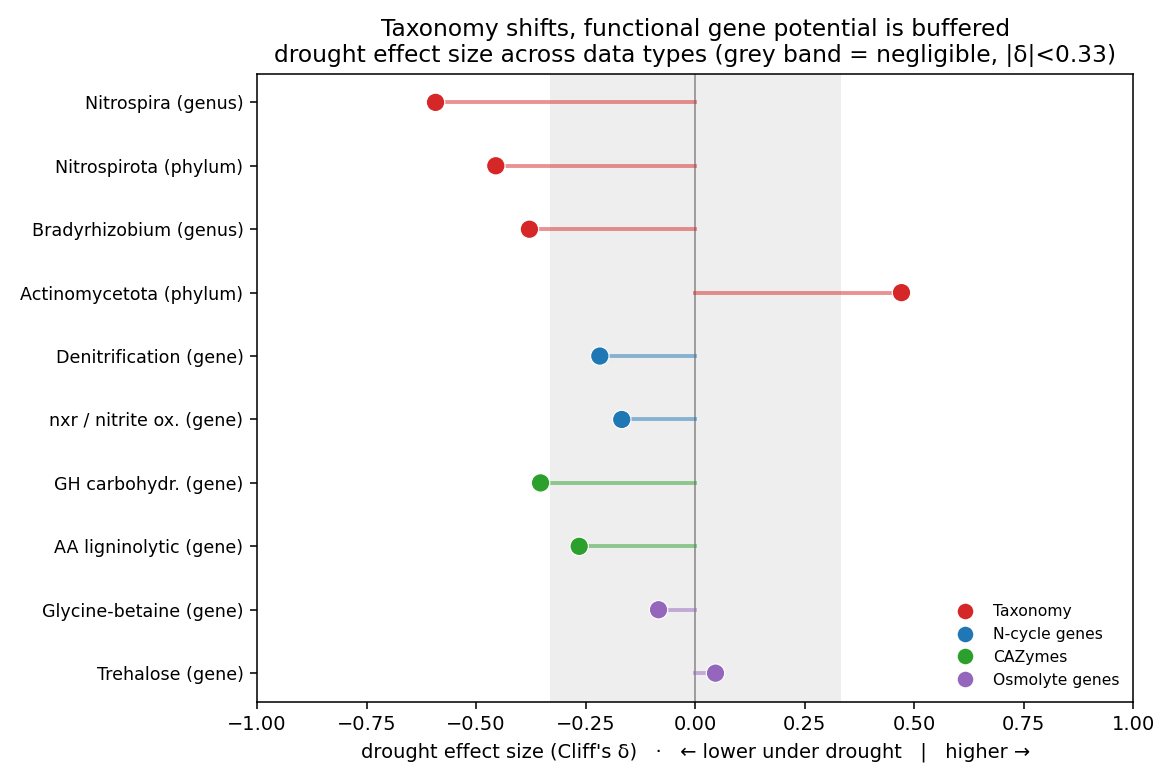
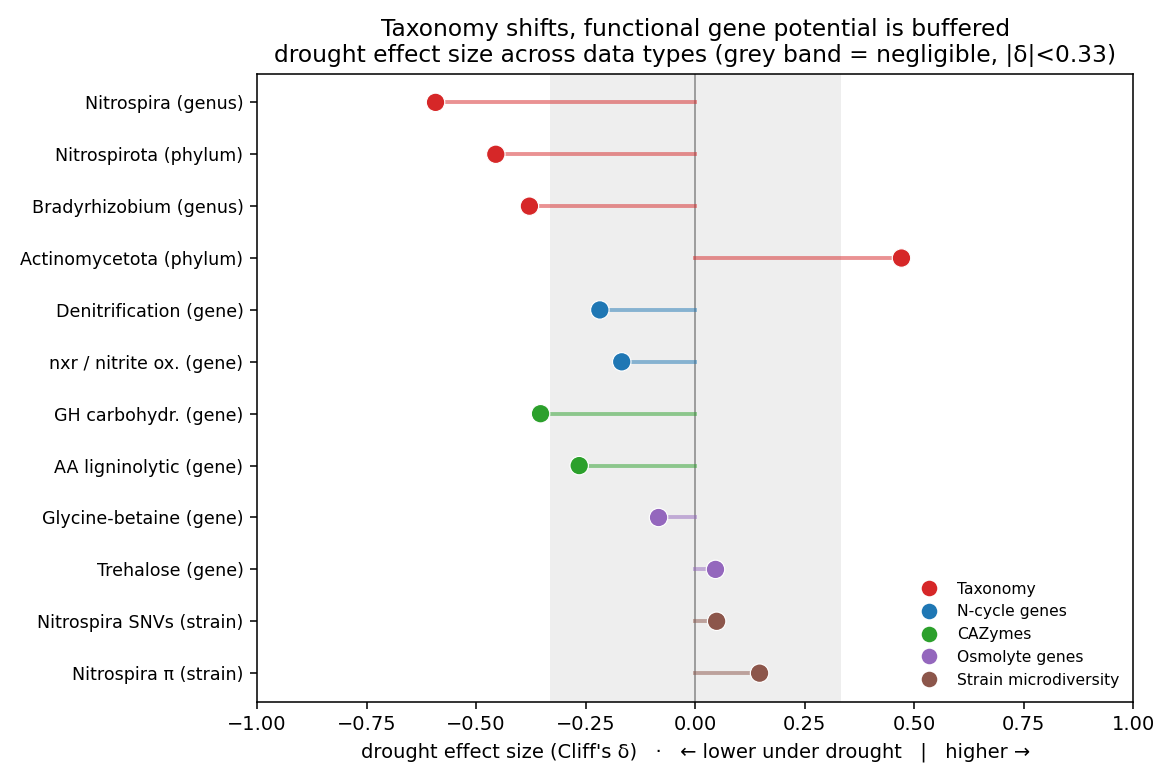
Tier-3 strain-level result: 102 dereplicated MAGs (CheckM2/GTDB-Tk/dRep); inStrain microdiversity of dominant Nitrospira MAG (n=30) shows nucleotide diversity UNCHANGED under drought (0.018->0.019, p=0.51) -> buffering extends to SNV resolution. Report §5c + synthesis fig17 now includes strain level

diff --git a/scripts/instrain_postprocess.py b/scripts/instrain_postprocess.py
@@ -1,0 +1,67 @@
+#!/usr/bin/env python3
+"""
+Strain-level drought test from inStrain profiles. For a target MAG (e.g. Nitrospira),
+collect per-sample nucleotide diversity (pi), SNV/SNS density, coverage and breadth from each
+sample's inStrain genome_info.tsv, then test the drought contrast. This probes WITHIN-population
+microdiversity — the axis that read-abundance and gene-potential tests cannot see.
+
+Usage: instrain_postprocess.py <label>   (label = subdir under assembly/instrain/)
+Outputs to b2/analysis/results/: instrain_<label>.tsv (+ appended to a checks file).
+"""
+import os, glob, sys
+import numpy as np, pandas as pd
+from scipy import stats
+
+LABEL = sys.argv[1] if len(sys.argv) > 1 else "Nitrospira"
+ISROOT = f"/mnt/disk4/timo/gbi/b2/assembly/instrain/{LABEL}"
+A = "/mnt/disk4/timo/gbi/b2/analysis"; RES = f"{A}/results"
+
+def cliffs(a, b):
+    a = np.asarray(a, float); b = np.asarray(b, float)
+    if len(a) == 0 or len(b) == 0: return np.nan
+    return (sum((bj > a).sum() for bj in b) - sum((bj < a).sum() for bj in b)) / (len(a) * len(b))
+
+def main():
+    rows = []
+    for d in sorted(glob.glob(f"{ISROOT}/*.IS")):
+        acc = os.path.basename(d).replace(".IS", "")
+        gi = glob.glob(f"{d}/output/*genome_info.tsv")
+        if not gi: continue
+        try: g = pd.read_csv(gi[0], sep="\t")
+        except Exception: continue
+        if not len(g): continue
+        r = g.iloc[0]
+        rows.append({"sample": acc,
+                     "coverage": r.get("coverage", np.nan),
+                     "breadth": r.get("breadth", np.nan),
+                     "nucl_diversity": r.get("nucl_diversity", np.nan),
+                     "SNV_count": r.get("SNV_count", np.nan),
+                     "SNS_count": r.get("SNS_count", np.nan),
+                     "divergent_sites": r.get("divergent_site_count", np.nan)})
+    df = pd.DataFrame(rows)
+    if not len(df):
+        print(f"no inStrain genome_info for {LABEL} yet"); return
+    # require reasonable breadth so pi is meaningful
+    df = df[df["breadth"].astype(float) >= 0.5]
+    meta = pd.read_csv(f"{A}/metadata.tsv", sep="\t", index_col=0)
+    df["condition"] = [meta.loc[s, "condition"] if s in meta.index else None for s in df["sample"]]
+    df.to_csv(f"{RES}/instrain_{LABEL}.tsv", sep="\t", index=False)
+    pre = df[df.condition == "pre-drought"]; dro = df[df.condition == "drought"]
+    print(f"=== inStrain {LABEL}: {len(df)} samples with breadth>=0.5 (pre={len(pre)} drought={len(dro)}) ===")
+    out = [f"label\t{LABEL}", f"n_samples_breadth50\t{len(df)}"]
+    for metric in ["nucl_diversity", "coverage", "breadth", "SNV_count"]:
+        a = pre[metric].astype(float).dropna(); b = dro[metric].astype(float).dropna()
+        if len(a) < 3 or len(b) < 3:
+            print(f"  {metric}: insufficient n"); continue
+        try: _, p = stats.mannwhitneyu(a, b, alternative="two-sided")
+        except ValueError: p = np.nan
+        d = cliffs(a, b)
+        arrow = "UP" if b.mean() > a.mean() else "down"
+        print(f"  {metric:16s} pre={a.mean():.4g} drought={b.mean():.4g} {arrow}  p={p:.3f}  Cliff δ={d:+.2f}")
+        out.append(f"{metric}_pre\t{a.mean():.5g}"); out.append(f"{metric}_drought\t{b.mean():.5g}")
+        out.append(f"{metric}_p\t{p:.4f}"); out.append(f"{metric}_cliffs\t{d:.3f}")
+    open(f"{RES}/instrain_{LABEL}_checks.txt", "w").write("\n".join(out) + "\n")
+    print(f"  -> results/instrain_{LABEL}.tsv")
+
+if __name__ == "__main__":
+    main()

diff --git a/scripts/build_report.py b/scripts/build_report.py
@@ -333,6 +333,32 @@ shift of <i>genomic</i> osmolyte potential — pointing to regulation at the tra
 level (which DNA cannot resolve), unlike the plants' standing osmolyte investment.</p>
 """ if OSM_OK else "")
 
+# --- Tier-3 MAGs + strain-level microdiversity (inStrain) ---
+_isk = _kv("instrain_Nitrospira_checks.txt")
+IS_OK = os.path.exists(f"{RES}/instrain_Nitrospira_checks.txt")
+_isn = _isk.get("n_samples_breadth50", "?")
+_ispi_pre = float(_isk.get("nucl_diversity_pre", "nan")); _ispi_dro = float(_isk.get("nucl_diversity_drought", "nan"))
+_ispi_p = float(_isk.get("nucl_diversity_p", "nan"))
+_drepdir = "/mnt/disk4/timo/gbi/b2/assembly/drep/dereplicated_genomes"
+_n_mags_drep = len([f for f in os.listdir(_drepdir) if f.endswith(".fa")]) if os.path.isdir(_drepdir) else 0
+strain_html = (f"""
+<h2>5c. Genome-resolved MAGs and strain-level stability</h2>
+<p>Per-sample co-assembly (MEGAHIT) and binning (MetaBAT2 → CheckM2 → GTDB-Tk → dRep) yielded a
+non-redundant set of <b>{_n_mags_drep} metagenome-assembled genomes</b> (≥50% complete, &lt;10%
+contamination), dominated by the uncultured Acidobacteriota/Pseudomonadota lineages typical of this
+soil. Notably, the most abundant genera (<i>Luteitalea</i>, <i>Acidobacterium</i>) yielded no
+high-quality MAG — they are too strain-diverse to assemble cleanly, itself a signature of high
+within-species diversity.</p>
+<div class="key"><b>The buffering extends to strain resolution.</b> For the recovered dominant
+nitrite-oxidiser (a <i>Nitrospira_C</i> MAG, 86% complete), within-population SNV diversity was
+profiled across {_isn} adequately-covered samples (inStrain). Nucleotide diversity is high but
+<b>unchanged</b> under drought ({_ispi_pre:.4f}→{_ispi_dro:.4f}, p={_ispi_p:.2f}), as are SNV count
+and coverage. So even at the deepest resolution — single-nucleotide variants within one population
+— the community is stable. The strain's own abundance also holds steady while the species-level
+signal declines, indicating the <i>Nitrospira</i> decrease is spread across the population rather
+than a crash of this dominant strain.</div>
+""" if IS_OK else "")
+
 html = f"""<!doctype html><html><head><meta charset="utf-8">
 <title>GBI Biosphere 2 Drought — Soil Microbiome Metagenomics</title>
 <style>
@@ -514,9 +540,11 @@ low-coverage in bulk shotgun).</p>
 {ncyc_html}
 {cazy_html}
 {osmolyte_html}
+{strain_html}
 <div class="key" style="text-align:center"><b>Synthesis — one axis moves, the rest are buffered.</b>
-Across taxonomy, N-cycle, carbohydrate-active and osmolyte genes, only the taxonomic decline of
-nitrite-oxidisers reaches a non-trivial effect size; functional gene potential is flat.</div>
+Across taxonomy, N-cycle, carbohydrate-active and osmolyte genes, and down to strain-level SNV
+diversity, only the taxonomic decline of nitrite-oxidisers reaches a non-trivial effect size;
+functional gene potential and within-population diversity are flat.</div>
 <div class="fig">{img('17_buffering_overview.png')}</div>
 {discussion_html}
 <h2>Statistical considerations</h2>

diff --git a/scripts/buffering_overview.py b/scripts/buffering_overview.py
@@ -37,13 +37,24 @@ add("AA ligninolytic (gene)", "CAZymes", grab("cazy_class_drought.tsv","feature"
 # Osmolyte genes
 add("Trehalose (gene)", "Osmolyte genes", grab("osmolyte_drought.tsv","pathway","Trehalose"))
 add("Glycine-betaine (gene)", "Osmolyte genes", grab("osmolyte_drought.tsv","pathway","Glycine-betaine"))
+# Strain level (inStrain microdiversity of the dominant Nitrospira MAG)
+def _ick(fn, key):
+    p = f"{RES}/{fn}"
+    if not os.path.exists(p): return None
+    for line in open(p):
+        if line.startswith(key + "\t"):
+            try: return float(line.split("\t")[1])
+            except Exception: return None
+    return None
+add("Nitrospira π (strain)", "Strain microdiversity", _ick("instrain_Nitrospira_checks.txt", "nucl_diversity_cliffs"))
+add("Nitrospira SNVs (strain)", "Strain microdiversity", _ick("instrain_Nitrospira_checks.txt", "SNV_count_cliffs"))
 
 if not rows:
     print("no data"); raise SystemExit
 
 df = pd.DataFrame(rows, columns=["label","cat","delta"])
-cats = ["Taxonomy","N-cycle genes","CAZymes","Osmolyte genes"]
-colors = {"Taxonomy":"#d62728","N-cycle genes":"#1f77b4","CAZymes":"#2ca02c","Osmolyte genes":"#9467bd"}
+cats = ["Taxonomy","N-cycle genes","CAZymes","Osmolyte genes","Strain microdiversity"]
+colors = {"Taxonomy":"#d62728","N-cycle genes":"#1f77b4","CAZymes":"#2ca02c","Osmolyte genes":"#9467bd","Strain microdiversity":"#8c564b"}
 df["cat"] = pd.Categorical(df["cat"], categories=cats, ordered=True)
 df = df.sort_values(["cat","delta"]).reset_index(drop=True)
 y = np.arange(len(df))[::-1]